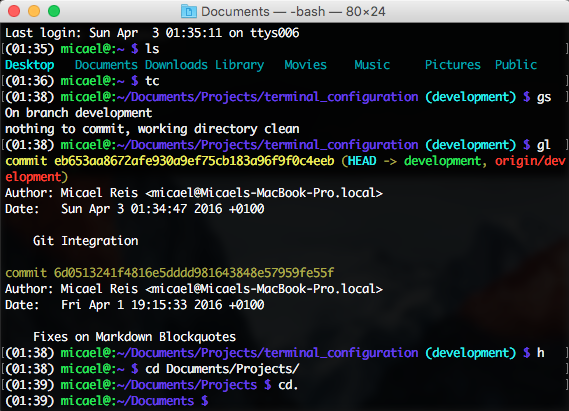
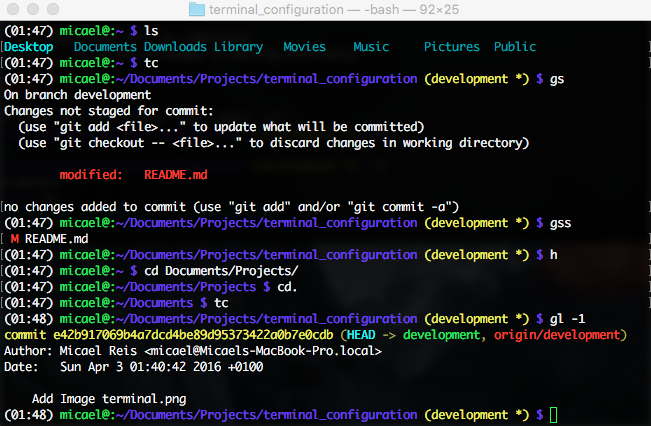
Update Image terminal.png

diff --git a/README.md b/README.md
@@ -5,17 +5,9 @@ Having to work everyday with the Mac OS X Terminal and my desire of having every
 
 This is how my Terminal is currently configured.
 
----
-
-Image Home ![Terminal]()
-
-Image Git
-
-Image Folder and Ls
-
-Image Shortcuts
-
----
+<p align="center">
+  <img src="https://github.com/micaelpreis/terminal_configuration/blob/development/images/terminal.png"/>
+</p>
 
 In this tutorial I will show you how to set up your Terminal on Mac OS X just like mine. 
 
@@ -132,7 +124,7 @@ Paste this three lines on your bash_profile
 
 	source ~/.git-completion.bash
 	source ~/.git-prompt.sh
-	
+
 	GIT_PS1_SHOWDIRTYSTATE='true'
 
 Finally, just change PS1 to this and when you start a new window, Terminal will be set.
